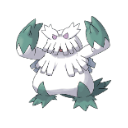
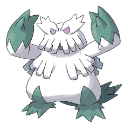
image optimisation

diff --git a/style.css b/style.css
@@ -38,8 +38,9 @@ body {
     padding: 0px;
     border-radius: 9px;
     & img {
-        width: 96px;
-        height: 96px;
+        padding: 9px;
+        width: 78px;
+        height: 78px;
     }
     & .pokemon-info-container {
         display: flex;
@@ -111,8 +112,9 @@ body {
     width: 128px;
     border-radius: 12px;
     & img {
-        width: 128px;
-        height: 128px;
+        padding: 12px;
+        width: 104px;
+        height: 104px;
     }
     & .pokemon-info-container {
         width: 128px;
